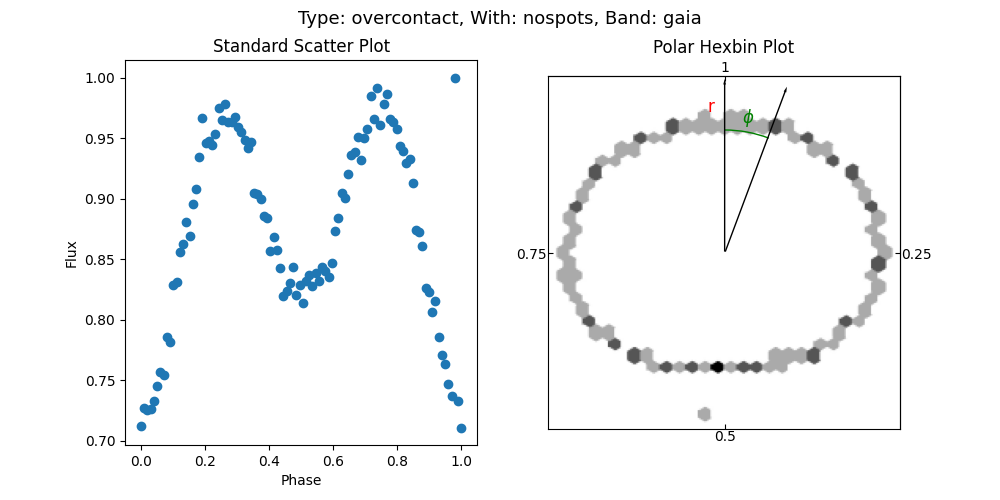
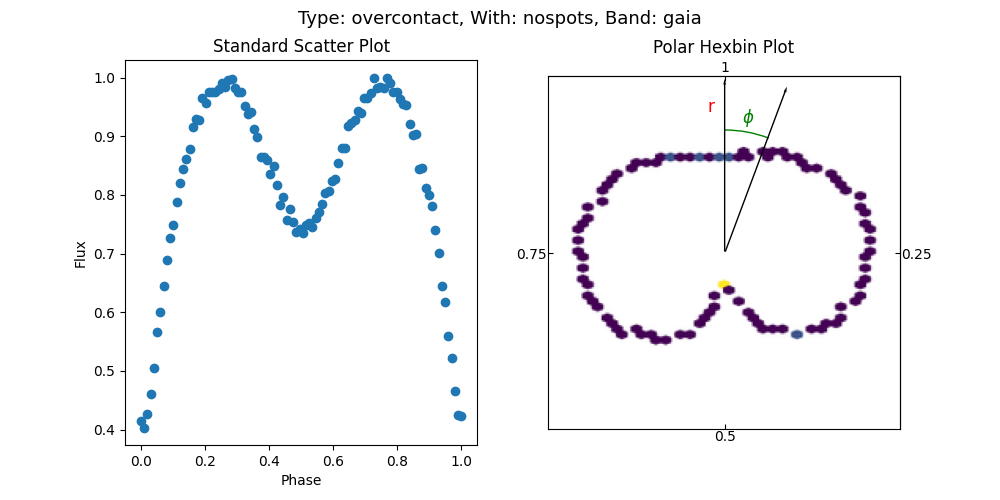
prepare files for ViT modeling

diff --git a/create_polar_hexbin.py b/create_polar_hexbin.py
@@ -1,10 +1,12 @@
 import numpy as np
+import pandas as pd
+import matplotlib.pyplot as plt
 import io
 from PIL import Image
+import os
+import re
 
-import matplotlib.pyplot as plt
-
-def create_polar_hexbin(vector, phase, period=1, image_size=224):
+def create_polar_hexbin(phase, flux, r_min=0.2, r_max=1., image_size=224):
     """
     Generates a polar hexbin plot from a vector and phase.
 
@@ -16,31 +18,101 @@ def create_polar_hexbin(vector, phase, period=1, image_size=224):
     Returns:
         A NumPy array representing the hexbin plot image.
     """
+    # remove some points randomly
+    num_points_to_remove = np.random.randint(60, 80)
+    random_indices = np.random.permutation(len(phase))[:num_points_to_remove]
+    mask = np.ones(len(phase), dtype=bool)  # Create a boolean mask
+    mask[random_indices] = False  # Set mask to False for selected rows
+    phase = phase[mask]
+    flux = flux[mask]
 
     # Calculate angle based on phase (in degrees)
     angle = phase * 360 - 90  # Subtract 90 to start from vertical line
 
+    flux_min, flux_max = flux.min(), flux.max()
+    r = r_max - (r_max - r_min) * (flux_max - flux) / (flux_max - flux_min)
+
     # Calculate x and y coordinates in radial coordinates
-    x = vector * np.cos(np.deg2rad(angle))
-    y = vector * np.sin(np.deg2rad(angle))
+    x = r * np.cos(np.deg2rad(angle))
+    y = r * np.sin(np.deg2rad(angle))
 
     # Create a figure and axes with the desired image size
     fig, ax = plt.subplots(figsize=(image_size / 100, image_size / 100), dpi=100)
 
     # Create the hexbin plot
-    hb = ax.hexbin(x, y, gridsize=25, cmap="gray", extent=[-1, 1, -1, 1])  # Extent for radial coordinates
+    hb = ax.hexbin(x, y, gridsize=30, cmap="viridis", mincnt=1)  # Extent for radial coordinates
 
-    # Remove axes, margins, and grid
-    ax.set_axis_off()
+    ax.set_xlim(-1.1, 1.1)
+    ax.set_ylim(-1.1, 1.1)
+    ax.set_aspect('equal')
+
+    plt.xticks([])
+    plt.yticks([])
     ax.grid(False)
     fig.tight_layout(pad=0)
 
     # Save the figure as a NumPy array with specified size
     buf = io.BytesIO()
-    fig.savefig(buf, format='png', dpi=100, bbox_inches='tight', pad_inches=0)
+    fig.savefig(buf, format='png', dpi=100, bbox_inches='tight', pad_inches=0.1)
     buf.seek(0)
     image = Image.open(buf).resize((image_size, image_size), Image.LANCZOS)
     image_array = np.array(image)
     plt.close(fig)
+    del fig
 
     return image_array
+
+def process_files(file_path):
+    # Dictionary to store DataFrames for each combination
+    dfs = {
+        'detached_gaia': [],
+        'detached_I': [],
+        'overcontact_gaia': [],
+        'overcontact_I': []
+    }
+    file_names = {
+        'detached_gaia': 'detached.+gaia',
+        'detached_I': 'detached.+I',
+        'overcontact_gaia': 'overcontact.+gaia',
+        'overcontact_I': 'overcontact.+I'
+    }
+
+    for name, pattern in file_names.items():
+        for filename in os.listdir(file_path):
+            if re.search(pattern, filename):
+                try:
+                    df = pd.read_csv(os.path.join(file_path, filename))
+                    dfs[name].append(df)  # Append to the corresponding list
+                except pd.errors.EmptyDataError:
+                    print(f"Skipping empty file: {filename}")
+                except pd.errors.ParserError:
+                    print(f"Skipping file with parsing error: {filename}")
+
+    # Concatenate DataFrames for each combination
+    for name in dfs:
+        dfs[name] = pd.concat(dfs[name], ignore_index=True)
+
+    return dfs  # Return the dictionary of DataFrames
+
+def generate_images(df, output_dir):
+    os.makedirs(output_dir, exist_ok=True)
+    for index, row in df.iterrows():
+        vector = row[:100].values
+        phase = np.linspace(0, 1, 100)
+        image_array = create_polar_hexbin(phase, vector)
+        image = Image.fromarray(image_array)
+        image.save(os.path.join(output_dir, f"{index}.png"))
+
+file_path = '/Users/wera/Max_astro/Slovakia/elisa_on_a_server/ML-EclipsingBinaries/test_sample/combined_datasets'
+dfs = process_files(file_path)
+
+# Generate images for each category
+for category, df in dfs.items():
+    if not df.empty:
+        upper_dir = category.split('_')[1]
+        class_dir = f"class_{0 if 'overcontact' in category else 1}"
+        output_dir = os.path.join(file_path, upper_dir, class_dir)
+        generate_images(df, output_dir)
+    else:
+        print(f"No data found for category: {category}")
+

diff --git a/plot_hexbin_for_paper.py b/plot_hexbin_for_paper.py
@@ -3,11 +3,11 @@ import io
 from PIL import Image
 import matplotlib.pyplot as plt
 import pandas as pd
-import random
 import os
 from matplotlib.patches import Arc
+import matplotlib.gridspec as gridspec
 
-def create_polar_hexbin(vector, phase, period=1, image_size=224):
+def create_polar_hexbin(phase, flux, r_min=0.2, r_max=1., image_size=224):
     """
     Generates a polar hexbin plot from a vector and phase.
 
@@ -23,28 +23,37 @@ def create_polar_hexbin(vector, phase, period=1, image_size=224):
     # Calculate angle based on phase (in degrees)
     angle = phase * 360 - 90  # Subtract 90 to start from vertical line
 
+    flux_min, flux_max = flux.min(), flux.max()
+    r = r_max - (r_max - r_min) * (flux_max - flux) / (flux_max - flux_min)
+
     # Calculate x and y coordinates in radial coordinates
-    x = vector * np.cos(np.deg2rad(angle))
-    y = vector * np.sin(np.deg2rad(angle))
+    x = r * np.cos(np.deg2rad(angle))
+    y = r * np.sin(np.deg2rad(angle))
 
     # Create a figure and axes with the desired image size
     fig, ax = plt.subplots(figsize=(image_size / 100, image_size / 100), dpi=100)
 
     # Create the hexbin plot
-    hb = ax.hexbin(x, y, gridsize=25, cmap="gray_r", extent=[-1, 1, -1, 1])  # Extent for radial coordinates
+    hb = ax.hexbin(x, y, gridsize=30, cmap="viridis", mincnt=1)  # Extent for radial coordinates
 
-    # Remove axes, margins, and grid
-    ax.set_axis_off()
+    ax.set_xlim(-1.1, 1.1)
+    ax.set_ylim(-1.1, 1.1)
+    ax.set_aspect('equal')
+
+    plt.xticks([])
+    plt.yticks([])
     ax.grid(False)
     fig.tight_layout(pad=0)
+    ax.set_axis_off()
 
     # Save the figure as a NumPy array with specified size
     buf = io.BytesIO()
-    fig.savefig(buf, format='png', dpi=100, bbox_inches='tight', pad_inches=0)
+    fig.savefig(buf, format='png', dpi=100, bbox_inches='tight', pad_inches=0.1)
     buf.seek(0)
     image = Image.open(buf).resize((image_size, image_size), Image.LANCZOS)
     image_array = np.array(image)
     plt.close(fig)
+    del fig
 
     return image_array
 
@@ -93,8 +102,6 @@ def choose_and_plot_light_curves(dataset_dir, filters={}, num_curves=5, save_plo
 
         image_size = 224
 
-        import matplotlib.gridspec as gridspec
-
         # Create a figure with a specific gridspec layout
         fig = plt.figure(figsize=(10, 5))
 
@@ -112,7 +119,7 @@ def choose_and_plot_light_curves(dataset_dir, filters={}, num_curves=5, save_plo
 
         # Polar hexbin plot
         ax2 = fig.add_subplot(gs[1])
-        image_array = create_polar_hexbin(vector, phase)
+        image_array = create_polar_hexbin(phase, vector)
         ax2.imshow(image_array)
         ax2.set_title("Polar Hexbin Plot")
 

diff --git a/Gaia_EB_Parameters/gaia_LC.py b/Gaia_EB_Parameters/gaia_LC.py
@@ -1,0 +1,62 @@
+import sys
+import os,warnings
+
+from astroquery.vizier import Vizier
+
+from astropy.coordinates.sky_coordinate import SkyCoord, Angle
+from astropy.table import Table, Column, vstack
+from astropy import units as u
+from astropy.io import ascii
+
+import numpy as np
+import numpy.ma as ma
+
+
+GAIA_Objects='I/358/veb'
+GAIA_LC='I/355/epphot'
+GAIA_DR3='I/355/gaiadr3'
+
+
+gaia_objects=ascii.read('gaia_eb.dat')
+
+new_table=Table()
+row_count=0
+
+for star in gaia_objects[:]:
+    source=star['Source']
+    RA_ICRS=star['RA_ICRS']
+    DE_ICRS=star['DE_ICRS']
+    TimeRef=star['TimeRef']
+    Period=1/star['Freq']
+    print(row_count, source)
+    v=Vizier(catalog=GAIA_DR3, columns=['RA_ICRS','DE_ICRS', 'GLON', 'GLAT', 'Plx','e_Plx', 'PM', 'pmRA','e_pmRA','pmDE','e_pmDE', 'Teff', 'Gmag', 'BPmag', 'RPmag', 'BP-RP', 'RV', 'e_RV', 'RVamp', 'logg', 'Dist'])
+                          #
+    try:
+        r = v.query_constraints(Source=source)[0]
+    # print(r)
+        tab=Table()
+        tab['Source']=Column(dtype='U20')
+        tab['RA_ICRS']=[]
+        tab['DE_ICRS']=[]
+        tab['TimeRef']=[]
+        tab['Period']=[]
+        new_row = {'Source': str(source), 'RA_ICRS': RA_ICRS, 'DE_ICRS':DE_ICRS, 'TimeRef':TimeRef, 'Period':Period}
+        tab.add_row(new_row)
+
+        for col_name in r.colnames:
+        # print(col_name)
+            original_column = r[col_name]
+            if isinstance(original_column, ma.MaskedArray): #check if column is masked
+                tab[col_name] = ma.masked_array(original_column.data, mask=original_column.mask, dtype=original_column.dtype) #copy masked array
+            else:
+                tab[col_name] = original_column.copy() #copy regular column
+    # print(tab)
+        new_table=vstack([new_table, tab])
+        # print(new_table)
+        row_count +=1
+        if row_count % 1000 == 0:
+            print('Saving catalog...')
+            new_table.write('catalog_eb_gaia.csv', format='csv', overwrite=True)  # Replace 'fits' with your desired format (e.g., 'csv', 'ascii')
+
+    except:
+        pass

diff --git a/create_polar_hexbin_stefan.py b/create_polar_hexbin_stefan.py
@@ -1,0 +1,45 @@
+import numpy as np
+
+import matplotlib.pyplot as plt
+
+def create_polar_hexbin(phase, flux, r_min=0.2, r_max=1., image_size=224, save_name=None):
+    """
+        Generates a polar hexbin plot based on phase and flux values.
+
+        phase (float): The phase value in turns (where 1 turn is a full circle).
+        flux (numpy.ndarray): The input flux values.
+        r_min (float, optional): The minimum radius value. Defaults to 0.2.
+        r_max (float, optional): The maximum radius value. Defaults to 1.0.
+        image_size (int, optional): The size of the output image in pixels (square). Defaults to 224.
+        save_name (str, optional): The file name to save the plot. If None, the plot is not saved. Defaults to None.
+
+        bool: True if the plot is successfully created.
+    """
+
+    angle = phase * 360 - 90 # Subtract 90 to start from vertical line
+
+    flux_min, flux_max = flux.min(), flux.max()
+    r = r_max - (r_max - r_min) * (flux_max - flux) / (flux_max - flux_min)
+
+    # Calculate x and y coordinates in radial coordinates
+    x = r * np.cos(np.deg2rad(angle))
+    y = r * np.sin(np.deg2rad(angle))
+
+    fig, ax = plt.subplots(figsize=(image_size / 100, image_size / 100), dpi=100)
+
+    # Create the hexbin plot
+    hb = ax.hexbin(x, y, gridsize=30, cmap="viridis", mincnt=1)
+
+    ax.set_xlim(-1.1, 1.1)
+    ax.set_ylim(-1.1, 1.1)
+    ax.set_aspect('equal')
+
+    plt.xticks([])
+    plt.yticks([])
+    ax.grid(False)
+    fig.tight_layout(pad=0)
+    plt.savefig(save_name, dpi=100, bbox_inches='tight', pad_inches = 0.1)
+    plt.close(fig)
+    del fig
+
+    return True

diff --git a/create_a_sample_for_CV.py b/create_a_sample_for_CV.py
@@ -76,7 +76,7 @@ def create_sample(input_csv, output_dir, sample_size=5000, random_state=69):
 
 
 # Directory to search for files
-base_dir = '/Users/wera/Max_astro/Slovakia/elisa_on_a_server/ML-EclipsingBinaries'
+base_dir = '/Users/wera/Max_astro/Slovakia/elisa_on_a_server/ML-EclipsingBinaries/Syntetic LC'  
 
 # Find all files that have 'gaia' or 'I' in the name
 file_paths = glob.glob(f"{base_dir}/**/*gaia*.csv", recursive=True) + glob.glob(f"{base_dir}/**/*I*.csv", recursive=True)
@@ -84,9 +84,9 @@ file_paths = glob.glob(f"{base_dir}/**/*gaia*.csv", recursive=True) + glob.glob(
 # Process each file based on the conditions
 for file_path in file_paths:
     if 'detached' in file_path:
-        sample_size = 1375
+        sample_size = 1000
     elif 'overcontact' in file_path:
-        sample_size = 2750
+        sample_size = 2000
     else:
         continue  # Skip files that do not match the conditions
 

diff --git a/combine_csv.py b/combine_csv.py
@@ -45,10 +45,10 @@ def append_files(input_dir, output_dir, combinations):
             print(f"Combined I dataset for {combination} created successfully at {output_file}")
 
 # Directory to search for files
-input_dir = '/Users/wera/Max_astro/Slovakia/elisa_on_a_server/ML-EclipsingBinaries'
+input_dir = '/Users/wera/Max_astro/Slovakia/elisa_on_a_server/ML-EclipsingBinaries/test_sample/'
 
 # Output directory
-output_dir = '/Users/wera/Max_astro/Slovakia/elisa_on_a_server/ML-EclipsingBinaries/combined_datasets'
+output_dir = '/Users/wera/Max_astro/Slovakia/elisa_on_a_server/ML-EclipsingBinaries/test_sample/combined_datasets'
 
 # Combinations to search for
 combinations = ['detached_spots', 'detached_nospots', 'overcontact_spots', 'overcontact_nospots']
